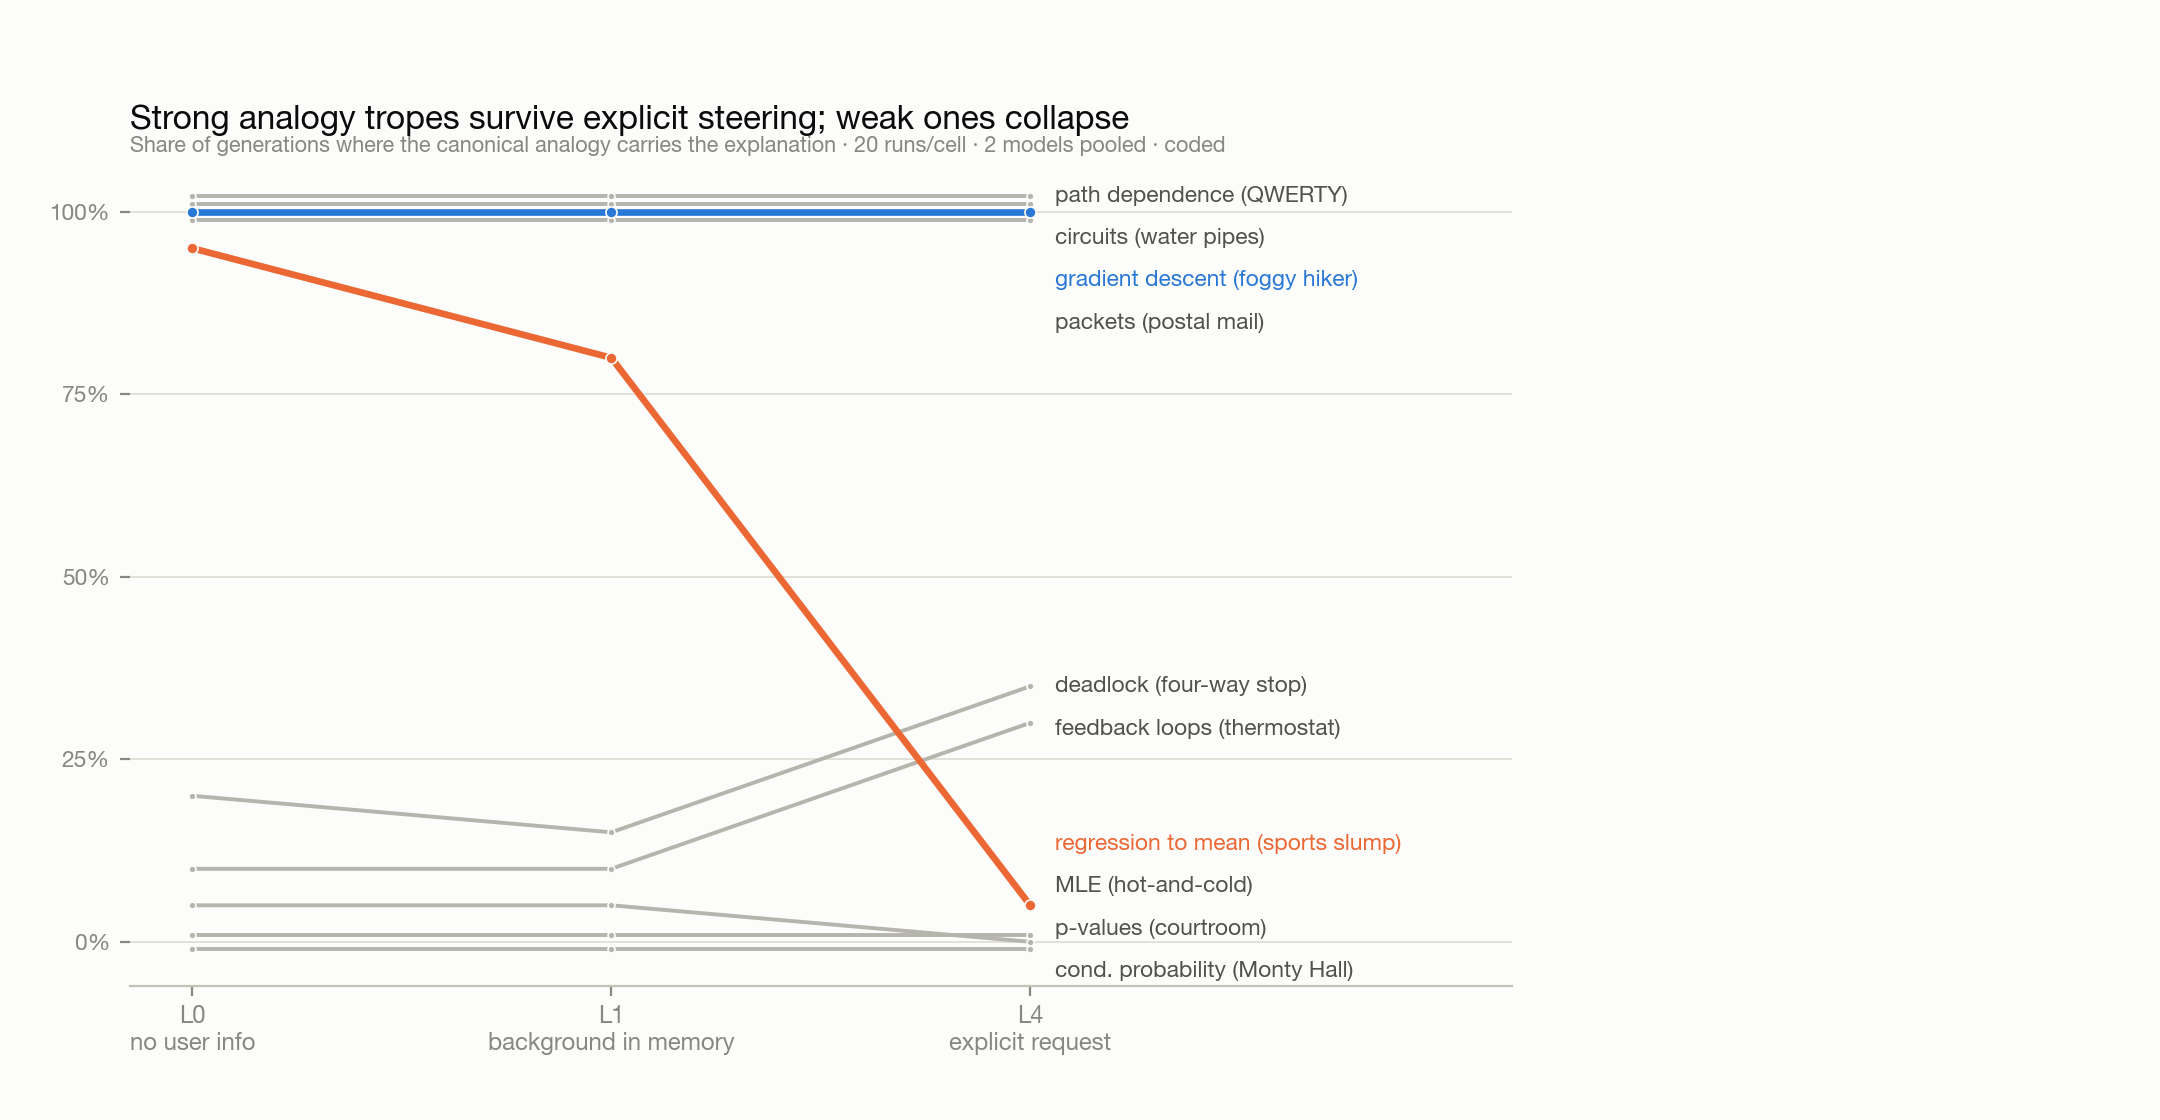
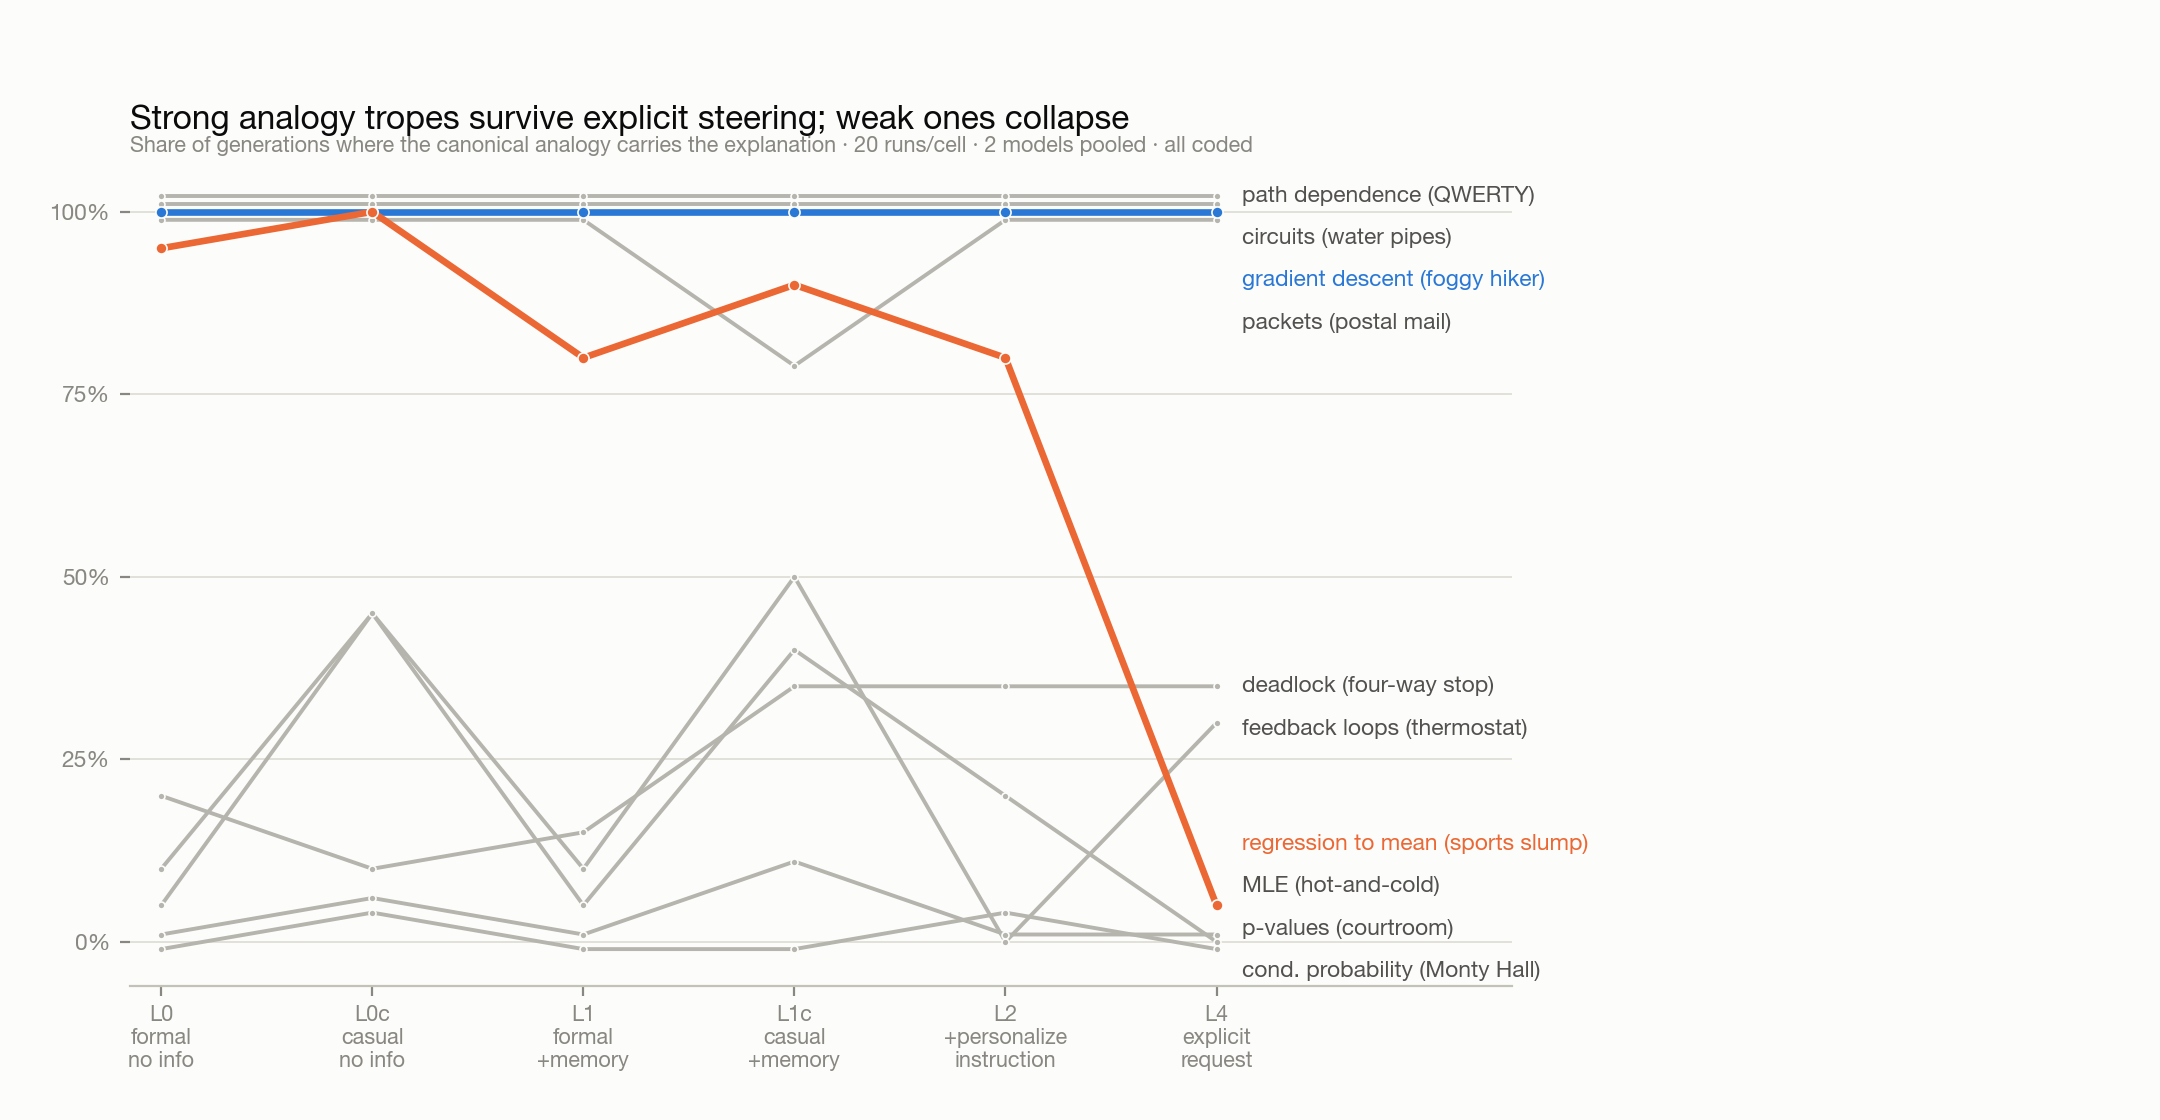
Add casual and instructed conditions: 660 coded generations, six-condition analysis and figures

diff --git a/summary.md b/summary.md
@@ -8,7 +8,10 @@ Expected canonical trope: **hot-and-cold parlor game / blindfolded hiker climbin
 | level | runs | canonical surfaced | top vehicles that actually surfaced |
 |---|---|---|---|
 | L0 | 20 | 1/20 | detective/investigation ×11, cooking/tasting/recipe ×3, «"Mystery Jar of Marbles."» ×2, water/pipes/plumbing ×2 |
+| L0c | 20 | 4/20 | detective/investigation ×10, exam/school/students ×7, «Reverse Engineering Game.» ×1, mountain/hiking/fog ×1 |
 | L1 | 20 | 0/20 | detective/investigation ×4, cooking/tasting/recipe ×3, exam/school/students ×3, «predicting the future» ×2 |
+| L1c | 20 | 1/20 | detective/investigation ×10, exam/school/students ×7, mountain/hiking/fog ×1, gambling/dice/lottery ×1 |
+| L2 | 20 | 0/20 | detective/investigation ×7, cooking/tasting/recipe ×3, exam/school/students ×2, «predicting the future» ×2 |
 | L4 | 20 | 0/20 | market/bargaining/shopping ×12, cooking/tasting/recipe ×5, «Maximum Likelihood Estimation (MLE)» ×1, mail/delivery ×1 |
 
 ## conditional probability  (stratum A)
@@ -17,7 +20,10 @@ Expected canonical trope: **Monty Hall problem (three doors, goats, switch)**
 | level | runs | canonical surfaced | top vehicles that actually surfaced |
 |---|---|---|---|
 | L0 | 20 | 0/20 | detective/investigation ×4, traffic/roads/intersection ×3, mail/delivery ×2, exam/school/students ×2 |
+| L0c | 20 | 1/20 | exam/school/students ×7, sports ×3, detective/investigation ×3, water/pipes/plumbing ×3 |
 | L1 | 20 | 0/20 | traffic/roads/intersection ×5, mail/delivery ×3, detective/investigation ×3, cooking/tasting/recipe ×2 |
+| L1c | 20 | 2/20 | exam/school/students ×11, water/pipes/plumbing ×2, detective/investigation ×2, courtroom/trial ×2 |
+| L2 | 20 | 0/20 | traffic/roads/intersection ×5, detective/investigation ×3, exam/school/students ×3, «"Missing Keys" analogy.» ×2 |
 | L4 | 20 | 0/20 | exam/school/students ×10, cooking/tasting/recipe ×4, market/bargaining/shopping ×3, family/household ×2 |
 
 ## p-values and hypothesis testing  (stratum A)
@@ -26,7 +32,10 @@ Expected canonical trope: **courtroom trial: innocent until proven guilty**
 | level | runs | canonical surfaced | top vehicles that actually surfaced |
 |---|---|---|---|
 | L0 | 20 | 6/20 | gambling/dice/lottery ×8, detective/investigation ×5, «suspicious friend and a coin.» ×1, cooking/tasting/recipe ×1 |
+| L0c | 20 | 12/20 | courtroom/trial ×7, exam/school/students ×4, gambling/dice/lottery ×3, detective/investigation ×2 |
 | L1 | 20 | 6/20 | gambling/dice/lottery ×8, detective/investigation ×3, sports ×3, «friend who claims to have a "magic coin.» ×1 |
+| L1c | 20 | 9/20 | exam/school/students ×7, courtroom/trial ×6, gambling/dice/lottery ×2, «an exercise in quantifying surprise.» ×1 |
+| L2 | 20 | 12/20 | courtroom/trial ×9, gambling/dice/lottery ×7, «"surprisingness."» ×2, cooking/tasting/recipe ×1 |
 | L4 | 20 | 4/20 | exam/school/students ×8, gambling/dice/lottery ×6, cooking/tasting/recipe ×4, family/household ×1 |
 
 ## negative feedback loops  (stratum B)
@@ -35,7 +44,10 @@ Expected canonical trope: **home thermostat**
 | level | runs | canonical surfaced | top vehicles that actually surfaced |
 |---|---|---|---|
 | L0 | 20 | 16/20 | bathtub/shower/kitchen ×12, traffic/roads/intersection ×6, thermostat/AC ×2 |
+| L0c | 20 | 16/20 | bathtub/shower/kitchen ×9, thermostat/AC ×6, exam/school/students ×3, doorway/politeness standoff ×1 |
 | L1 | 20 | 9/20 | bathtub/shower/kitchen ×11, traffic/roads/intersection ×7, thermostat/AC ×2 |
+| L1c | 20 | 16/20 | thermostat/AC ×8, bathtub/shower/kitchen ×6, exam/school/students ×3, doorway/politeness standoff ×1 |
+| L2 | 20 | 9/20 | bathtub/shower/kitchen ×15, traffic/roads/intersection ×4, thermostat/AC ×1 |
 | L4 | 20 | 10/20 | cooking/tasting/recipe ×12, thermostat/AC ×8 |
 
 ## gradient descent  (stratum A)
@@ -44,7 +56,10 @@ Expected canonical trope: **hot-and-cold game / blindfolded hiker descending a h
 | level | runs | canonical surfaced | top vehicles that actually surfaced |
 |---|---|---|---|
 | L0 | 20 | 20/20 | mountain/hiking/fog ×20 |
+| L0c | 20 | 20/20 | mountain/hiking/fog ×20 |
 | L1 | 20 | 20/20 | mountain/hiking/fog ×20 |
+| L1c | 20 | 20/20 | mountain/hiking/fog ×19, water/pipes/plumbing ×1 |
+| L2 | 20 | 20/20 | mountain/hiking/fog ×20 |
 | L4 | 20 | 20/20 | mountain/hiking/fog ×20 |
 
 ## regression to the mean  (stratum A)
@@ -53,7 +68,10 @@ Expected canonical trope: **sophomore slump / Sports Illustrated cover jinx / ro
 | level | runs | canonical surfaced | top vehicles that actually surfaced |
 |---|---|---|---|
 | L0 | 20 | 15/20 | sports ×12, cooking/tasting/recipe ×5, «Skill» ×1, queue/line/waiting ×1 |
+| L0c | 20 | 19/20 | exam/school/students ×9, sports ×6, music/instrument ×2, bathtub/shower/kitchen ×1 |
 | L1 | 20 | 11/20 | sports ×13, «Regression to the Mean» ×2, cooking/tasting/recipe ×2, guessing/darts/target ×1 |
+| L1c | 20 | 12/20 | sports ×9, exam/school/students ×7, guessing/darts/target ×2, water/pipes/plumbing ×1 |
+| L2 | 20 | 16/20 | sports ×9, cooking/tasting/recipe ×8, guessing/darts/target ×1, exam/school/students ×1 |
 | L4 | 20 | 3/20 | exam/school/students ×20 |
 
 ## deadlock  (stratum A)
@@ -62,7 +80,10 @@ Expected canonical trope: **four-way stop / two polite people stuck in a doorway
 | level | runs | canonical surfaced | top vehicles that actually surfaced |
 |---|---|---|---|
 | L0 | 20 | 3/20 | doorway/politeness standoff ×4, «the jar of peanut butter» ×4, traffic/roads/intersection ×3, «deadlock» ×3 |
+| L0c | 20 | 2/20 | water/pipes/plumbing ×3, traffic/roads/intersection ×3, exam/school/students ×3, doorway/politeness standoff ×2 |
 | L1 | 20 | 1/20 | doorway/politeness standoff ×6, exam/school/students ×4, «a knife» ×3, «deadlock» ×3 |
+| L1c | 20 | 8/20 | traffic/roads/intersection ×11, exam/school/students ×4, water/pipes/plumbing ×2, «dependencies» ×1 |
+| L2 | 20 | 7/20 | traffic/roads/intersection ×5, doorway/politeness standoff ×3, exam/school/students ×2, «a knife» ×2 |
 | L4 | 20 | 0/20 | traffic/roads/intersection ×9, exam/school/students ×6, market/bargaining/shopping ×2, family/household ×2 |
 
 ## voltage and electric current  (stratum B)
@@ -71,7 +92,10 @@ Expected canonical trope: **water flowing through pipes**
 | level | runs | canonical surfaced | top vehicles that actually surfaced |
 |---|---|---|---|
 | L0 | 20 | 20/20 | water/pipes/plumbing ×20 |
+| L0c | 20 | 20/20 | water/pipes/plumbing ×19, exam/school/students ×1 |
 | L1 | 20 | 20/20 | water/pipes/plumbing ×18, exam/school/students ×1, farming/gardening ×1 |
+| L1c | 20 | 20/20 | water/pipes/plumbing ×17, exam/school/students ×2, mountain/hiking/fog ×1 |
+| L2 | 20 | 20/20 | water/pipes/plumbing ×17, exam/school/students ×3 |
 | L4 | 20 | 20/20 | water/pipes/plumbing ×17, exam/school/students ×2, mail/delivery ×1 |
 
 ## how data packets travel on the internet  (stratum B)
@@ -80,7 +104,10 @@ Expected canonical trope: **postal mail / letters**
 | level | runs | canonical surfaced | top vehicles that actually surfaced |
 |---|---|---|---|
 | L0 | 20 | 20/20 | mail/delivery ×20 |
+| L0c | 20 | 20/20 | mail/delivery ×17, water/pipes/plumbing ×3 |
 | L1 | 20 | 20/20 | mail/delivery ×20 |
+| L1c | 20 | 20/20 | mail/delivery ×17, traffic/roads/intersection ×3 |
+| L2 | 20 | 20/20 | mail/delivery ×20 |
 | L4 | 20 | 20/20 | mail/delivery ×18, water/pipes/plumbing ×1, traffic/roads/intersection ×1 |
 
 ## confidence intervals  (stratum C)
@@ -89,7 +116,10 @@ Expected canonical trope: **(none dominant)**
 | level | runs | canonical surfaced | top vehicles that actually surfaced |
 |---|---|---|---|
 | L0 | 20 | n/a (no canonical) | water/pipes/plumbing ×11, «a fisherman trying to catch a fish in a » ×2, courtroom/trial ×1, «"30 minutes."» ×1 |
+| L0c | 20 | n/a (no canonical) | water/pipes/plumbing ×13, exam/school/students ×4, guessing/darts/target ×2, «a fisherman.» ×1 |
 | L1 | 20 | n/a (no canonical) | water/pipes/plumbing ×9, traffic/roads/intersection ×2, mountain/hiking/fog ×2, «"I’m about 10 minutes away."» ×1 |
+| L1c | 20 | n/a (no canonical) | water/pipes/plumbing ×12, exam/school/students ×3, guessing/darts/target ×2, mountain/hiking/fog ×2 |
+| L2 | 20 | n/a (no canonical) | water/pipes/plumbing ×6, guessing/darts/target ×3, mountain/hiking/fog ×2, «"Lost Set of Keys" analogy.» ×1 |
 | L4 | 20 | n/a (no canonical) | market/bargaining/shopping ×11, exam/school/students ×5, cooking/tasting/recipe ×2, guessing/darts/target ×1 |
 
 ## path dependence  (stratum C)
@@ -98,5 +128,8 @@ Expected canonical trope: **(none dominant; QWERTY is semi-canonical)**
 | level | runs | canonical surfaced | top vehicles that actually surfaced |
 |---|---|---|---|
 | L0 | 20 | 20/20 | mail/delivery ×8, water/pipes/plumbing ×6, exam/school/students ×5, mountain/hiking/fog ×1 |
+| L0c | 20 | 20/20 | exam/school/students ×8, traffic/roads/intersection ×7, water/pipes/plumbing ×2, market/bargaining/shopping ×2 |
 | L1 | 20 | 20/20 | water/pipes/plumbing ×8, exam/school/students ×6, mail/delivery ×3, traffic/roads/intersection ×1 |
+| L1c | 20 | 20/20 | exam/school/students ×7, mountain/hiking/fog ×6, traffic/roads/intersection ×3, water/pipes/plumbing ×2 |
+| L2 | 20 | 20/20 | water/pipes/plumbing ×7, exam/school/students ×6, mail/delivery ×2, market/bargaining/shopping ×2 |
 | L4 | 20 | 20/20 | water/pipes/plumbing ×9, traffic/roads/intersection ×5, mail/delivery ×3, market/bargaining/shopping ×1 |